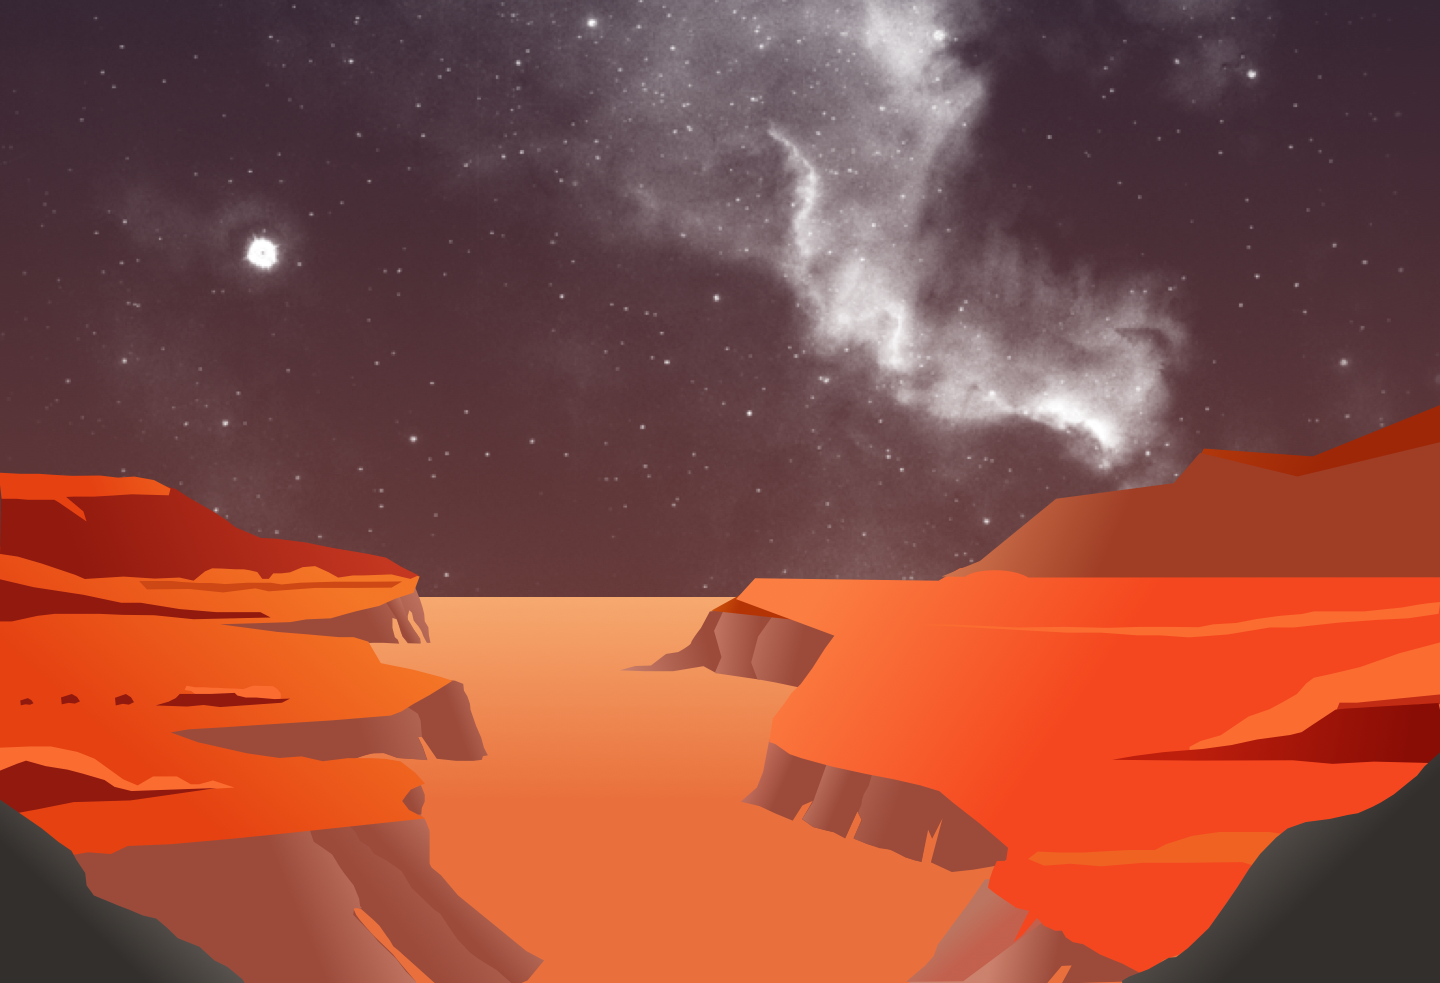
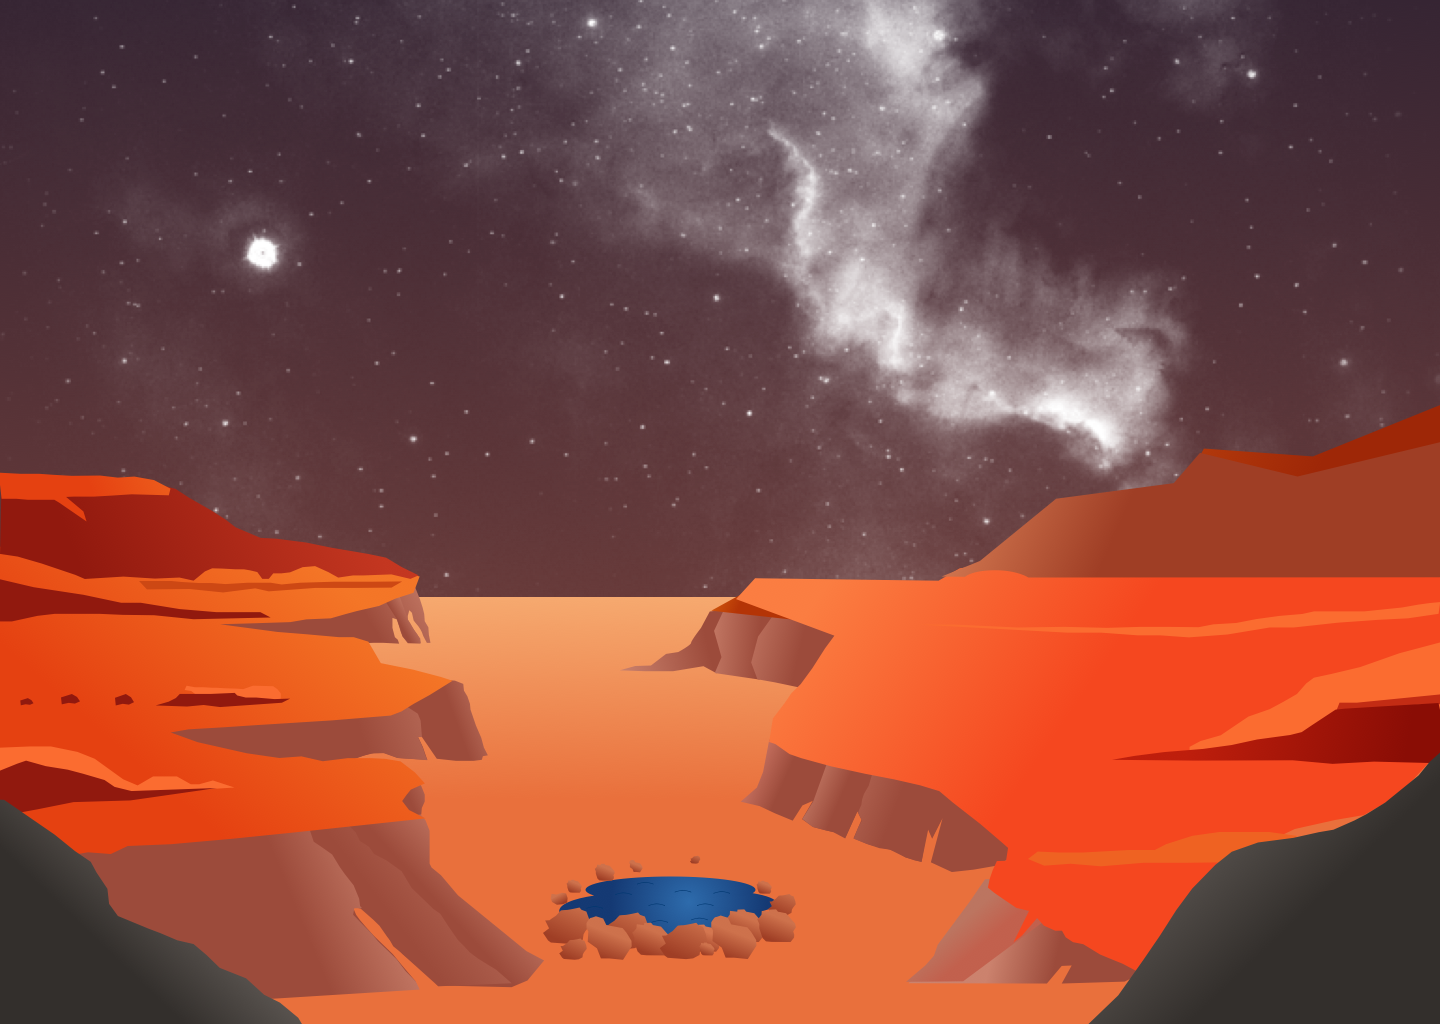
add steam animation and finish basecamp page

Changed region(s): [[0.0, 0.2442, 1.0, 1.0], [0.5312, 0.1221, 0.5938, 0.2136], [0.1562, 0.2136, 0.2188, 0.2747]]

diff --git a/css/styles.css b/css/styles.css
@@ -256,12 +256,15 @@ input {
 @keyframes stars {
   60% {
     opacity: 1; } }
+@keyframes steam {
+  60% {
+    opacity: 1; } }
 .observation {
   position: absolute;
   top: 29%;
   left: 6%; }
 
-.obs-desc, .bar-desc, .room-desc {
+.obs-desc, .bar-desc, .room-desc, .gym-desc, .gossamer-desc {
   opacity: 0;
   transition: all 1.5s; }
 
@@ -298,5 +301,31 @@ input {
 
 .room1:hover .room-desc {
   opacity: 1; }
+
+.gym {
+  position: absolute;
+  bottom: 35%;
+  left: 15%; }
+
+.gym:hover .gym-desc {
+  opacity: 1; }
+
+.gossamer {
+  position: absolute;
+  bottom: 20%;
+  left: 10%; }
+
+.gossamer:hover .gossamer-desc {
+  opacity: 1; }
+
+.steam {
+  width: 200px;
+  position: absolute;
+  bottom: 10%;
+  right: 48%; }
+  .steam img {
+    width: 100%;
+    opacity: 0;
+    -webkit-animation: steam 6s 2s infinite; }
 
 /*# sourceMappingURL=styles.css.map */

diff --git a/scss/pages/_basecamp.scss b/scss/pages/_basecamp.scss
@@ -25,13 +25,17 @@
   60%  { opacity: 1; }
 }
 
+@keyframes steam {
+  60%  { opacity: 1; }
+}
+
 .observation {
   position: absolute;
   top: 29%;
   left: 6%;
 }
 
-.obs-desc, .bar-desc, .room-desc {
+.obs-desc, .bar-desc, .room-desc, .gym-desc, .gossamer-desc {
   opacity: 0;
   transition: all 1.5s;
 }
@@ -76,4 +80,36 @@
 
 .room1:hover .room-desc {
   opacity: 1;
+}
+
+.gym {
+  position: absolute;
+  bottom: 35%;
+  left: 15%;
+}
+
+.gym:hover .gym-desc {
+  opacity: 1;
+}
+
+.gossamer {
+  position: absolute;
+  bottom: 20%;
+  left: 10%;
+}
+
+.gossamer:hover .gossamer-desc {
+  opacity: 1;
+}
+
+.steam {
+  width: 200px;
+  position: absolute;
+  bottom: 10%;
+  right: 48%;
+  & img {
+    width: 100%;
+    opacity: 0;
+    -webkit-animation: steam 6s 2s infinite;
+  }
 }

diff --git a/basecamp.html b/basecamp.html
@@ -46,6 +46,17 @@
       <div class="room4">
         <img src="img/room.png" alt="Room" />
       </div>
+      <div class="gym">
+        <img src="img/gym.png" alt="Gym" />
+        <img class="gym-desc" src="img/sports-facility.png" alt="Gym description" />
+      </div>
+      <div class="gossamer">
+        <img src="img/gossamers.png" alt="Gossamers" />
+        <img class="gossamer-desc" src="img/gossamer.png" alt="Gossamer description" />
+      </div>
+      <div class="steam">
+        <img src="img/steam.png" alt="Hot spring steam" />
+      </div>
 
     </div>
 
